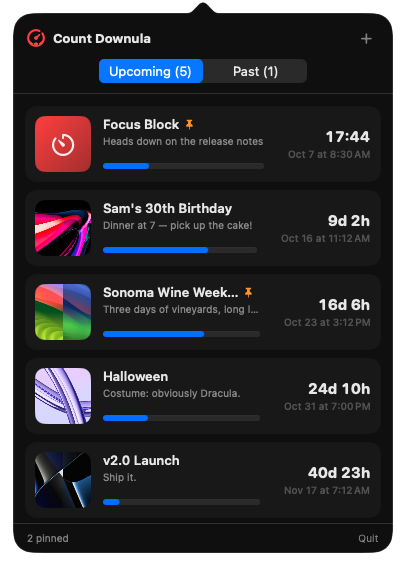
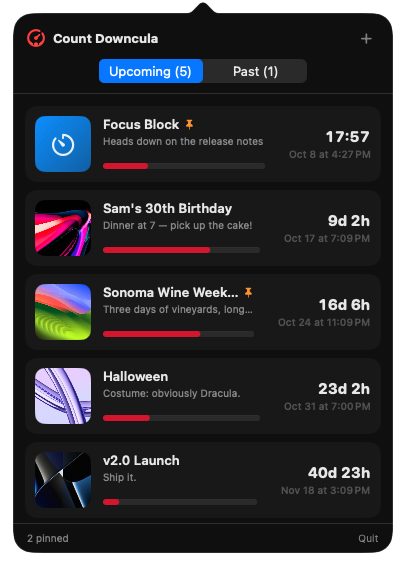
Demo data: Sonoma Light for the Sonoma photo, and retake the shots
The dynamic Sonoma wallpaper's thumbnail is split into light and dark
halves, which showed as a seam in the detail screenshot. The Light
variant is a single image. Popover and detail screenshots retaken with it.

diff --git a/Sources/Countdownula/CountdownStore.swift b/Sources/Countdownula/CountdownStore.swift
@@ -151,7 +151,9 @@ final class CountdownStore {
             (Countdown(title: "Sam's 30th Birthday", details: "Dinner at 7 — pick up the cake!",
                        targetDate: now + 9 * day + 10_800, createdAt: now - 20 * day), photo("Light Stream Pink")),
             (Countdown(title: "Sonoma Wine Weekend", details: "Three days of vineyards, long lunches and zero laptops.",
-                       targetDate: now + 16 * day + 25_200, isPinned: true, createdAt: now - 30 * day), photo("Sonoma")),
+                       targetDate: now + 16 * day + 25_200, isPinned: true, createdAt: now - 30 * day),
+             // The Light variant: dynamic wallpapers have a thumbnail split into light and dark halves.
+             photo("Sonoma Light")),
             (Countdown(title: "Halloween", details: "Costume: obviously Dracula.",
                        targetDate: halloween, createdAt: now - 10 * day), photo("Hello Metallic Purple")),
             (Countdown(title: "v2.0 Launch", details: "Ship it.",
